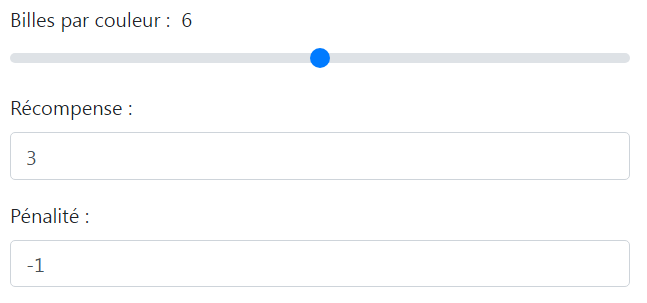
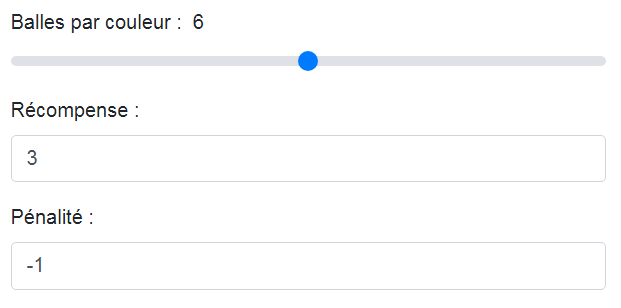
Alts added to pictures

diff --git a/index.html b/index.html
@@ -45,7 +45,7 @@
         <h1 translation="welcome_msg"></h1>
         <h3 translation="welcome_desc" class="text-center w-75 m-auto"></h3>
         <div style="text-align: center;">
-            <img src="images/Robot logo.png" width="150px" height="150px" style="border: solid 7px;
+            <img src="images/Robot logo.png" alt="Logo robot" width="150px" height="150px" style="border: solid 7px;
             border-radius: 50%;">
         </div>
         <div id="home_btn_grp" class="d-flex">
@@ -78,24 +78,24 @@
                 <tbody>
                     <tr>
                         <th>
-                            <img src="images/Match.png">
-                            <img src="images/Match.png">
-                            <img src="images/Match.png">
-                            <img src="images/Match.png">
-                            <img src="images/Match.png">
+                            <img src="images/Match.png" translation="rules_match_alt">
+                            <img src="images/Match.png" translation="rules_match_alt">
+                            <img src="images/Match.png" translation="rules_match_alt">
+                            <img src="images/Match.png" translation="rules_match_alt">
+                            <img src="images/Match.png" translation="rules_match_alt">
                         </th>
                         <th>
-                            <img src="images/Match.png">
-                            <img src="images/Match.png">
-                            <img src="images/Match.png">
-                            <img src="images/Match.png">
+                            <img src="images/Match.png" translation="rules_match_alt">
+                            <img src="images/Match.png" translation="rules_match_alt">
+                            <img src="images/Match.png" translation="rules_match_alt">
+                            <img src="images/Match.png" translation="rules_match_alt">
                         </th>
                         <th>
-                            <img src="images/Match.png">
-                            <img src="images/Match.png">
+                            <img src="images/Match.png" translation="rules_match_alt">
+                            <img src="images/Match.png" translation="rules_match_alt">
                         </th>
                         <th>
-                            <img src="images/Match.png">
+                            <img src="images/Match.png" translation="rules_match_alt">
                         </th>
                         <th></th>
                     </tr>
@@ -126,19 +126,19 @@
                 <tr>
                     <th class="probs_steps" translation="probs_initial"></th>
                     <th class="probs_steps">
-                        <img src="images/Example initial.png">
+                        <img src="images/Example initial.png" translation="probs_initial_alt">
                     </th>
                 </tr>
                 <tr>
                     <th class="probs_steps" translation="probs_win"></th>
                     <th class="probs_steps">
-                        <img src="images/Example won.png">
+                        <img src="images/Example won.png" translation="probs_win_alt">
                     </th>
                 </tr>
                 <tr>
                     <th class="probs_steps" translation="probs_lost"></th>
                     <th class="probs_steps">
-                        <img src="images/Example loss.png">
+                        <img src="images/Example loss.png" translation="probs_lost_alt">
                     </th>
                 </tr>
             </table>
@@ -153,7 +153,7 @@
                 <div id="left_top">
                     <p class="h5" translation="goal_gist"></p>
                 </div>
-                <img src="images/Robot.svg" width="200px" height="200px" id="robot">
+                <img src="images/Robot.svg" alt="Robot" width="200px" height="200px" id="robot">
                 <div id="right_top">
                     <p class="h5" translation="goal_about_matches"></p>
                 </div>
@@ -207,7 +207,7 @@
         <div class="card-group" style="margin-inline: 0;">
             <div class="card" style="min-width: 90vw; margin-inline: 0;">
                 <img class="card-img-top" id="param_baskets_main_pic" src="images/Basket with balls example.png"
-                    alt="Explanation about the number of baskets and balls">
+                    translation="param_alt_1">
                 <div class="card-body" style="margin-left: 13em; align-self: flex-end; min-height: 300px;">
                     <h5 translation="param_desc_title"></h5>
                     <p class="card-text" translation="param_desc_1"></p>
@@ -226,21 +226,25 @@
                         <tbody>
                             <tr>
                                 <td>
-                                    <img src="images/new_basket.png" width="150px" class="img-fluid img-thumbnail">
+                                    <img src="images/new_basket.png" width="150px" class="img-fluid img-thumbnail"
+                                    translation="param_alt_2">
                                 </td>
                                 <th translation="param_desc_4"></th>
                                 <td>
-                                    <img src="images/Basket focus 1.png" width="150px" class="img-fluid img-thumbnail">
+                                    <img src="images/Basket focus 1.png" width="150px" class="img-fluid img-thumbnail"
+                                    translation="param_alt_5">
                                 </td>
                                 <th translation="param_desc_6"></th>
                             </tr>
                             <tr>
                                 <td>
-                                    <img src="images/Basket focus 3.png" width="150px" class="img-fluid img-thumbnail">
+                                    <img src="images/Basket focus 3.png" width="150px" class="img-fluid img-thumbnail"
+                                    translation="param_alt_3">
                                 </td>
                                 <th translation="param_desc_5"></th>
                                 <td>
-                                    <img src="images/Basket focus 2.png" width="150px" class="img-fluid img-thumbnail">
+                                    <img src="images/Basket focus 2.png" width="150px" class="img-fluid img-thumbnail"
+                                    translation="param_alt_4">
                                 </td>
                                 <th translation="param_desc_7"></th>
                             </tr>
@@ -250,7 +254,7 @@
             </div>
             <div class="card">
                 <img class="card-img-top" src="images/Possible moves.png"
-                    alt="Explanation about the number of moves possible">
+                    translation="param_alt_6">
                 <div class="card-body">
                     <h5 translation="param_moves_title"></h5>
                     <p class="card-text" translation="param_moves"></p>
@@ -258,7 +262,7 @@
             </div>
             <div class="card">
                 <img class="card-img-top" src="images/Opponent.png"
-                    alt="Explanation about the types of opponents possible">
+                    translation="param_alt_7">
                 <div class="card-body">
                     <h5 translation="param_opponents_title"></h5>
                     <p class="card-text" translation="param_opponents"></p>
@@ -266,28 +270,31 @@
             </div>
             <div class="card">
                 <img class="card-img-top" src="images/Reward and penalty.png"
-                    alt="Explanation about the reward and penalty">
+                    translation="param_alt_8">
                 <div class="card-body">
                     <h5 translation="param_learning_title"></h5>
                     <p class="card-text" translation="param_learning"></p>
                 </div>
             </div>
             <div class="card">
-                <img class="card-img-top" src="images/Speed.png" alt="Explanation about the speed that can be chosen">
+                <img class="card-img-top" src="images/Speed.png"
+                translation="param_alt_9">
                 <div class="card-body">
                     <h5 translation="param_speed_title"></h5>
                     <p class="card-text" translation="param_speed"></p>
                 </div>
             </div>
             <div class="card">
-                <img class="card-img-top" src="images/Rules bending.png">
+                <img class="card-img-top" src="images/Rules bending.png"
+                translation="param_alt_10">
                 <div class="card-body">
                     <h5 translation="param_rules_bending_title"></h5>
                     <p class="card-text" translation="param_rules_bending"></p>
                 </div>
             </div>
             <div class="card">
-                <img class="card-img-top" src="images/RL specs.png" alt="Explanation about who starts">
+                <img class="card-img-top" src="images/RL specs.png" alt="Explanation about who starts"
+                translation="param_alt_11">
                 <div class="card-body">
                     <h5 translation="param_RL_spec_title"></h5>
                     <p class="card-text" translation="param_RL_spec"></p>

diff --git a/localization/languages.js b/localization/languages.js
@@ -105,6 +105,10 @@ const texts = {
         fr: "<b>Le joueur 1 a gagné.</b>",
         en: "<b>Player 1 won.</b>"
     },
+    "rules_match_alt":{
+        fr: "Allumette",
+        en: "Match"
+    },
 
     /* REINFORCEMENT LEARNING PART */
 
@@ -155,13 +159,25 @@ const texts = {
         fr: "Pour représenter le nombre d'allumettes retirées on utilise des balles de différentes couleurs : <ul class='m-auto' style='width: fit-content;'> <li>jaune pour 1 allumette retirée</li> <li>rouge pour 2 allumettes retirées</li> </ul> Au début il y a 2 balles jaunes et 2 balles rouges. <br>La probabilité de retirer une balle jaune est la même que la probabilité de retirer une balle rouge.",
         en: "To represent the number of matches removed we use balls of different colors: <ul class='m-auto' style='width: fit-content;'> <li>yellow for 1 match removed</li> <li>red for 2 matches removed</li> </ul> At the beginning there are 2 yellow balls and 2 red balls. <br>The probability of removing a yellow ball is the same as the probability of removing a red ball."
     },
+    "probs_initial_alt": {
+        fr: "Image de 2 balles jaunes et 2 balles rouges",
+        en: "Image of 2 yellow balls and 2 red balls"
+    },
     "probs_win": {
         fr: "Si l'IA a gagné la partie, elle ajoutera 3 balles de la couleur correspondante à chaque coup qu'elle aura effectué. <br>Ici l'IA a retiré 2 allumettes ce qui correspond à une balle rouge. <br>Comme c'est une action qui lui a permis de gagner, 3 balles rouges vont être ajoutées à chaque casier correspondant. <br>La probabilité de retirer deux alumettes en un coup augmente.",
         en: "If the AI has won the game, it will add 3 balls of the corresponding color for each move it has made. <br>Here the AI removed 2 matches which corresponds to a red ball. <br>As this is an action that allowed it to win, 3 red balls will be added to each corresponding basket. <br>The probability of removing two matches in one move increases."
     },
+    "probs_win_alt": {
+        fr: "Image de 5 balles rouges et 2 balles jaunes",
+        en: "Image of 5 red balls and 2 yellow balls"
+    },
     "probs_lost": {
         fr: "Si l'IA a perdu la partie, elle retirera 1 balle de la couleur correspondante à chaque coup qu'elle aura effectué. <br>Ici l'IA a retiré 2 allumettes ce qui correspond à une balle rouge. <br>Comme c'est une action qui lui a fait perdre, 1 balle rouge va être retirée à chaque casier correspondant. <br>La probabilité de retirer deux alumettes en un coup diminue.",
         en: "If the AI has lost the game, it will remove 1 ball of the corresponding color for each move it has made. <br>Here the AI removed 2 matches which corresponds to a red ball. <br>Since this is an action that made it lose, 1 red ball will be removed from each corresponding basket. <br>The probability of removing two matches in one move decreases."
+    },
+    "probs_lost_alt": {
+        fr: "Image d'une balle rouge et 2 balles jaunes",
+        en: "Image of 1 red balls and 2 yellow balls"
     },
 
     /* GOAL PART */
@@ -328,6 +344,50 @@ const texts = {
         fr: "Ce paramètre vous permet de choisir si l'IA doit apprendre des coups de son adversaire. Par exemple, si l'IA a gagné la partie, elle considèrera les coups de son adversaire comme des coups perdants et les ajoutera à son apprentissage.",
         en: "This parameter allows you to choose if the AI should learn from its opponent's moves. For example, if the AI has won the game, it will consider its opponent's moves as losing moves and add them to its learning."
     },
+    "param_alt_1": {
+        fr: "Explication sur le nombre de casiers et de balles",
+        en: "Explanation about the number of baskets and balls",
+    },
+    "param_alt_2": {
+        fr: "Image d'un panier",
+        en: "Image of a basket",
+    },
+    "param_alt_3": {
+        fr: "Image d'un ensemble de balles",
+        en: "Image of a set of balls",
+    },
+    "param_alt_4": {
+        fr: "Indicateurs du nombre de balles par couleur",
+        en: "Indicators of the number of balls per color",
+    },
+    "param_alt_5": {
+        fr: "Indicateur du numéro de panier",
+        en: "Basket number indicator",
+    },
+    "param_alt_6": {
+        fr: "Paramètres \"Coups possibles\" et \"Nombre de casiers\"",
+        en: "Parameters \"Possible moves\" and \"Number of baskets\"",
+    },
+    "param_alt_7": {
+        fr: "Paramètre \"Adversaire\"",
+        en: "Parameter \"Opponent\"",
+    },
+    "param_alt_8": {
+        fr: "Paramètres \"Balles par couleur\" \"Récompense\" et \"Pénalité\"",
+        en: "Parameters \"Balls per color\" \"Reward\" and \"Penalty\"",
+    },
+    "param_alt_9": {
+        fr: "Paramètre \"Cadence\"",
+        en: "Parameter \"Cadence\"",
+    },
+    "param_alt_10": {
+        fr: "Paramètres divers permettant de modifier les règles du jeu",
+        en: "Various parameters for modifying the rules of the game",
+    },
+    "param_alt_11": {
+        fr: "Paramètre permettant de choisir si l'IA doit apprendre des coups de son adversaire",
+        en: "Parameter allowing to choose if the AI should learn from its opponent's moves",
+    },
 
     /* ADAPTATION PART */
 
@@ -388,7 +448,7 @@ const texts = {
         en: "Number of baskets:"
     },
     "adaptation_balls_color" : {
-        fr: "Billes par couleur :",
+        fr: "Balles par couleur :",
         en: "Balls per color:"
     },
     "adaptation_reward": {

diff --git a/js/Adaptation.js b/js/Adaptation.js
@@ -240,7 +240,7 @@ function updateCanvas() {
 
 /**Create the baskets on the canvas */
 function createBaskets(nbBaskets, moves) {
-    var basket = '<img src="./images/new_basket.png" width="150px" height="150px" class="basket_drawing" alt="A basket/un casier">';
+    var basket = '<img src="./images/new_basket.png" width="150px" height="150px" class="basket_drawing" translation="param_alt_2">';
     var nbBalls = formValues["nbBalls"];
     var tmpCounter = 0;
     for (let i = 1; i < nbBaskets; i++) {

diff --git a/MainPage.js b/MainPage.js
@@ -76,7 +76,11 @@ function setLang() {
         } else if (langPicked == "fr") {
             var value = texts[key][langPicked];
         }
-        $(this).html(value);
+        if($(this).is("img")){
+            $(this).attr("alt", value);
+        } else {
+            $(this).html(value);
+        }
     });
 }
 
